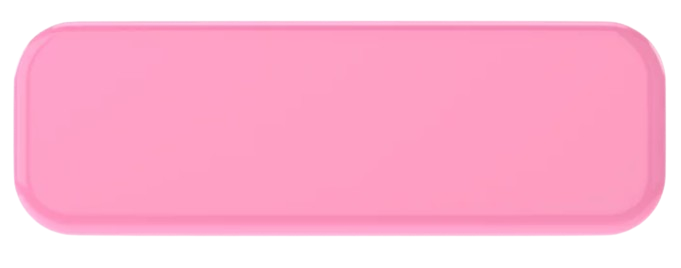
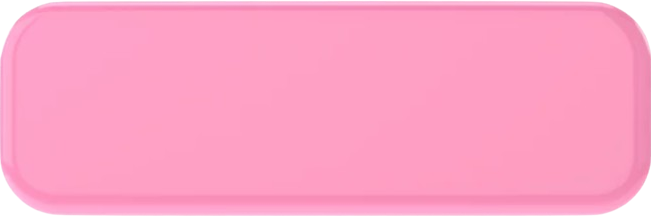
12/2

Changed region(s): [[0.0, 0.0, 1.0, 1.0]]

diff --git a/buttons.py b/buttons.py
@@ -17,7 +17,7 @@ class Button:
             self.topEdge <= mouseY <= self.topEdge + self.height)
     
     def drawHighlight(self):
-        drawRect(self.leftEdge, self.topEdge, self.width, self.height, fill = None, border = 'black')
+        drawImage('buttonHighlight.png', self.leftEdge, self.topEdge, width = self.width, height = self.height)
             
     def drawButton(self):
         #image from https://stock.adobe.com/search?k=%22pink+button%22&asset_id=537039436

diff --git a/main.py b/main.py
@@ -7,6 +7,9 @@
 # scroll bar
 # maybe random image chooser based on categories user selects
 
+#images: https://docs.google.com/document/d/1fT-UJPKzTpPlPjaDBd1HXdmDL1TBXOJUnp3GDQunrz8/edit?usp=sharing
+
+
 from cmu_graphics import *
 # from urllib.request import urlopen
 from PIL import Image
